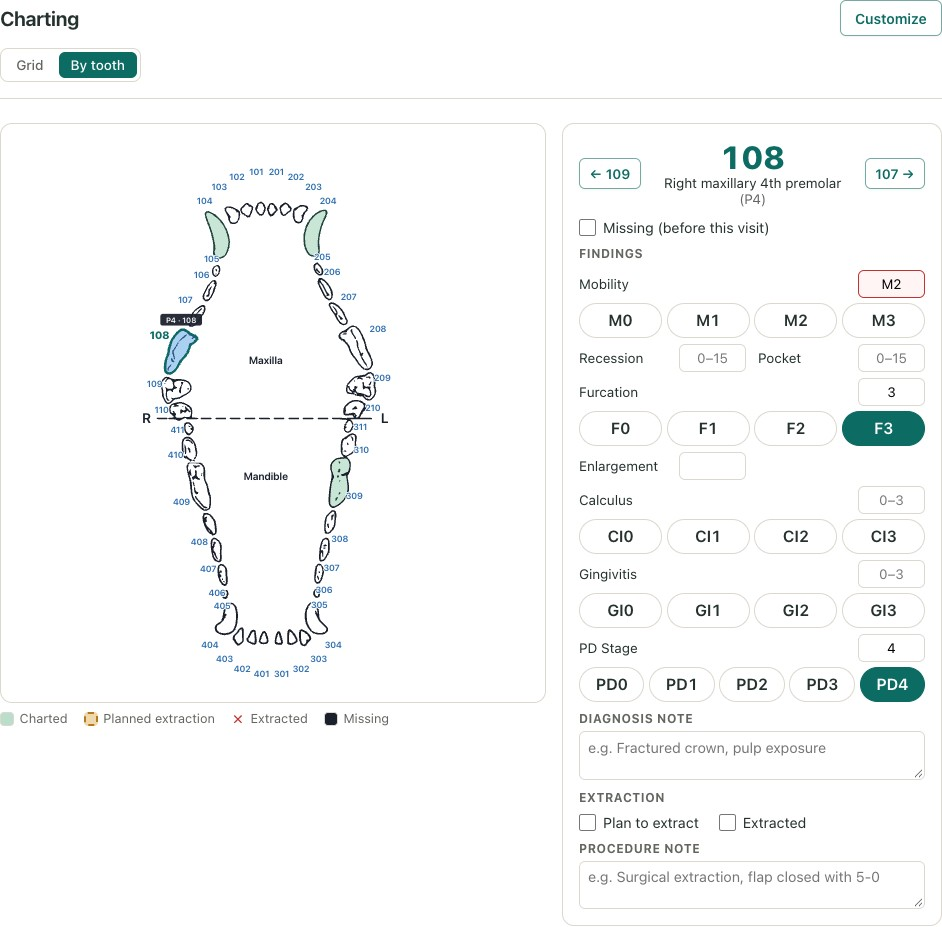
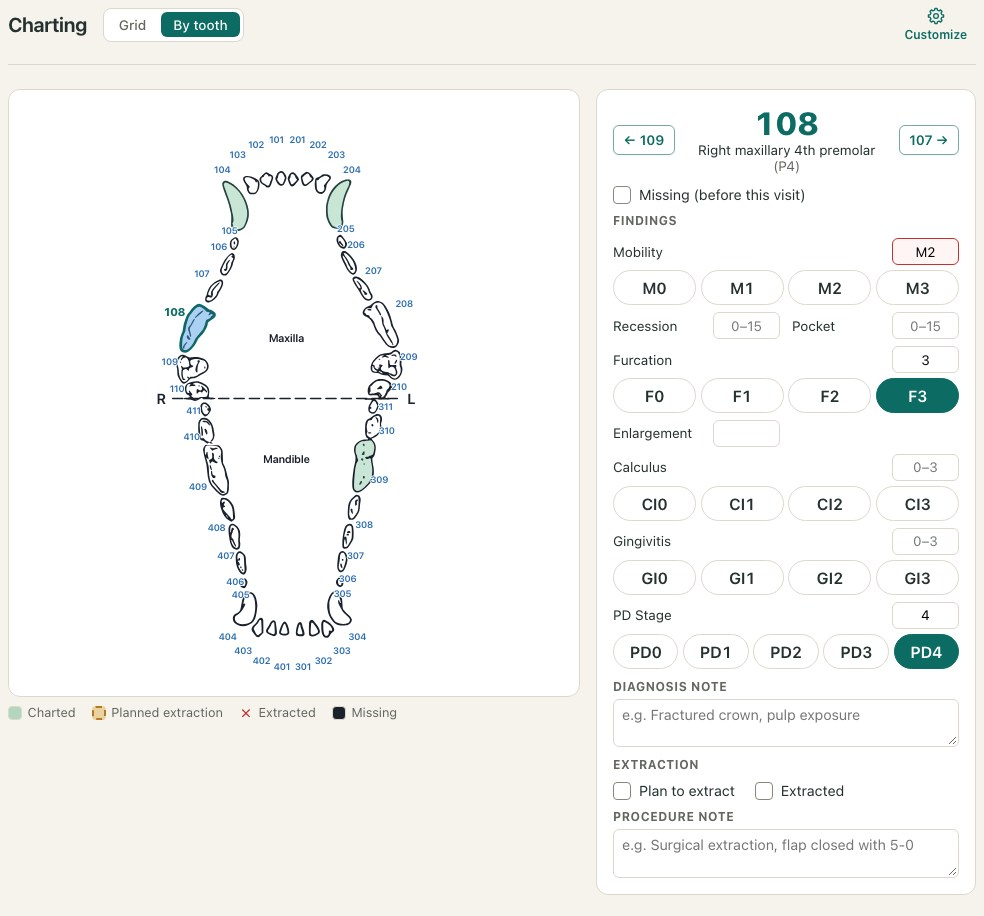
Standardize Customize controls and align the Charting switch

diff --git a/src/help/topics.ts b/src/help/topics.ts
@@ -23,7 +23,7 @@ export const HELP_SCREENSHOTS: Partial<Record<HelpTopic, readonly HelpScreenshot
   start: [{ caption: 'start', src: '/help/screenshots/chart-overview.jpg', width: 1280, height: 605, section: 'first' }],
   patients: [{ caption: 'patients', src: '/help/screenshots/patient-history.jpg', width: 1132, height: 772, section: 'third' }],
   exam: [
-    { caption: 'exam', src: '/help/screenshots/exam.jpg', width: 976, height: 508, section: 'first' },
+    { caption: 'exam', src: '/help/screenshots/exam.jpg', width: 976, height: 530, section: 'first' },
     { caption: 'examCustomize', src: '/help/screenshots/exam-customize.jpg', width: 964, height: 784, section: 'first' },
   ],
   consultation: [
@@ -44,7 +44,7 @@ export const HELP_SCREENSHOTS: Partial<Record<HelpTopic, readonly HelpScreenshot
   charting: [{ caption: 'charting', src: '/screenshots/feat-grid.jpg', width: 1400, height: 515, section: 'first' }],
   imaging: [
     { caption: 'attachmentNames', src: '/help/screenshots/attachment-names.jpg', width: 968, height: 233, section: 'first' },
-    { caption: 'imagingTemplates', src: '/help/screenshots/imaging.jpg', width: 1240, height: 850, section: 'third' },
+    { caption: 'imagingTemplates', src: '/help/screenshots/imaging.jpg', width: 1240, height: 686, section: 'third' },
   ],
   dictation: [
     { caption: 'dictation', src: '/help/screenshots/dictation.jpg', width: 1440, height: 705, section: 'third' },
@@ -54,8 +54,8 @@ export const HELP_SCREENSHOTS: Partial<Record<HelpTopic, readonly HelpScreenshot
     { caption: 'dischargeTemplates', src: '/help/screenshots/discharge-templates.jpg', width: 836, height: 922, section: 'first' },
     { caption: 'owner', src: '/help/screenshots/owner-report.jpg', width: 976, height: 438, section: 'second' },
   ],
-  export: [{ caption: 'export', src: '/help/screenshots/review-export.jpg', width: 1232, height: 772, section: 'second' }],
-  'by-number': [{ caption: 'by-number', src: '/help/screenshots/by-tooth.jpg', width: 942, height: 927, section: 'first' }],
+  export: [{ caption: 'export', src: '/help/screenshots/review-export.jpg', width: 1280, height: 772, section: 'second' }],
+  'by-number': [{ caption: 'by-number', src: '/help/screenshots/by-tooth.jpg', width: 984, height: 916, section: 'first' }],
 };
 
 export const CHART_CUSTOMIZATION_CATEGORIES = ['patient', 'exam', 'anesthesia', 'charting', 'diagnosis', 'procedure', 'images'] as const;

diff --git a/src/components/ClinicalPolish.css b/src/components/ClinicalPolish.css
@@ -210,8 +210,36 @@ html:not(.native-ios) .entry-grid-container .entry-grid-form :is(.patient-form__
   grid-column: 2; grid-row: 1; justify-self: end;
 }
 html:not(.native-ios) .entry-grid-container .entry-grid-form .charting-header-actions { display: contents; }
-html:not(.native-ios) .entry-grid-container .entry-grid-form .charting-header-actions > .diagram-view__action { grid-column: 2; grid-row: 1; justify-self: end; }
-html:not(.native-ios) .entry-grid-container .entry-grid-form .charting-view-switch { grid-column: 1 / -1; grid-row: 2; justify-self: start; }
+html:not(.native-ios) .entry-grid-container .entry-grid-form .charting-header-actions > .section-header__customize { grid-column: 2; grid-row: 1; justify-self: end; }
+html:not(.native-ios) .entry-grid-container .entry-grid-form .dental-grid-section:has(> .dental-grid__section-header > .charting-header-actions) {
+  container: charting-header / inline-size;
+}
+html:not(.native-ios) .entry-grid-container .entry-grid-form .charting-view-switch {
+  grid-column: 1 / -1;
+  grid-row: 2;
+  justify-self: start;
+  max-inline-size: 100%;
+}
+html:not(.native-ios) .entry-grid-container .entry-grid-form .tooth-chart .charting-view-switch {
+  grid-column: 1;
+}
+@container charting-header (min-width: 320px) {
+  html:not(.native-ios) .entry-grid-container .entry-grid-form .dental-grid__section-header:has(> .charting-header-actions) {
+    grid-template-columns: minmax(0, max-content) minmax(0, 1fr) auto;
+  }
+  html:not(.native-ios) .entry-grid-container .entry-grid-form .charting-header-actions > .section-header__customize {
+    grid-column: 3;
+  }
+  html:not(.native-ios) .entry-grid-container .entry-grid-form .charting-header-actions > .charting-view-switch {
+    grid-column: 2;
+    grid-row: 1;
+  }
+}
+html:not(.native-ios) .entry-grid-container .entry-grid-form .dental-grid__section-header:has(> .charting-header-actions) .dental-grid__title,
+html:not(.native-ios) .entry-grid-container .entry-grid-form .charting-view-switch__btn {
+  min-inline-size: 0;
+  overflow-wrap: anywhere;
+}
 
 .section-header__actions, .section-header__description, .section-header__title-action { grid-column: 1 / -1; min-width: 0; }
 .section-header__title-action { margin-inline-start: auto; display: flex; flex-wrap: wrap; justify-content: flex-end; gap: 8px; }

diff --git a/src/components/PracticeSettingsModal.tsx b/src/components/PracticeSettingsModal.tsx
@@ -1,4 +1,5 @@
 import React from 'react';
+import { CustomizeButton } from './CustomizeButton';
 import { Trans, useTranslation } from 'react-i18next';
 import i18n from '../i18n';
 import { formatDateTime } from '../i18n/format';
@@ -763,13 +764,8 @@ export const PracticeSettingsModal: React.FC<PracticeSettingsModalProps> = ({
               </li>
             ))}
           </ul>
-          <button
-            type="button"
-            className="diagram-view__action"
-            onClick={() => { setTreatmentTemplateId(null); setTemplatesOpen('treatment'); }}
-          >
-            {t('practice.treatmentReport.customize')}
-          </button>
+          <CustomizeButton label={t('practice.treatmentReport.customize')}
+            onClick={() => { setTreatmentTemplateId(null); setTemplatesOpen('treatment'); }} />
         </section>
       )}
 
@@ -780,13 +776,8 @@ export const PracticeSettingsModal: React.FC<PracticeSettingsModalProps> = ({
           <p className="ai-settings-blurb">
             {t('practice.ownerReport.blurb')}
           </p>
-          <button
-            type="button"
-            className="diagram-view__action"
-            onClick={() => (asScreen && onCustomizeReport ? onCustomizeReport() : setTemplatesOpen('owner'))}
-          >
-            {t('practice.ownerReport.customize')}
-          </button>
+          <CustomizeButton label={t('practice.ownerReport.customize')}
+            onClick={() => (asScreen && onCustomizeReport ? onCustomizeReport() : setTemplatesOpen('owner'))} />
         </section>
       )}
 

diff --git a/src/EntryGrid.tsx b/src/EntryGrid.tsx
@@ -4,6 +4,7 @@ import { useConsultationLibrary } from './hooks/useConsultationLibrary';
 import { CONSULTATION_FIELDS, isUnmodifiedStandardDischarge, consultationLayoutFor, dischargeLayoutFor, isCustomConsultationField, isCustomDischargeField } from './utils/consultationTemplates';
 import { ConsultationTemplatesDialog } from './components/ConsultationTemplatesDialog';
 import { Icon } from './ios/icons';
+import { CustomizeButton } from './components/CustomizeButton';
 import { useTeam } from './hooks/useTeam';
 import { RefineTextContext } from './components/RefineTextAction';
 import type { HistoryVisit } from './components/PatientRecordHistory';
@@ -476,14 +477,13 @@ const EntryGrid: React.FC<EntryGridProps> = ({
       {chartingViewSwitch}
       {/* The app has Customize in the Chart bar's More menu. */}
       {!native && (
-        <button
-          type="button"
-          className="diagram-view__action section-header__customize"
+        <CustomizeButton
+          className="section-header__customize"
           onClick={() => openChartSettings('charting')}
           title={t('customize.hint')}
-        >
-          {t('customize.label')}
-        </button>
+          label={t('customize.label')}
+          opensDialog
+        />
       )}
     </div>
   );

diff --git a/src/components/forms.i18n.test.tsx b/src/components/forms.i18n.test.tsx
@@ -17,6 +17,7 @@ import { ExamAreasEditor } from './ExamAreasEditor';
 import { SurgeryReportForm } from './SurgeryReportForm';
 import { ImagingSection } from './ImagingSection';
 import { DocumentsModal } from './DocumentsModal';
+import { CustomizeButton } from './CustomizeButton';
 
 // The report-template store and the attachment hook talk to Supabase; swap in plain state.
 const templateStore = vi.hoisted(() => ({
@@ -73,6 +74,16 @@ const patient: PatientInfo = {
   doctor: '', tech: 'Dr. Sharma', date: '2026-03-05', complaint: 'Gum swelling', treatmentReport: '',
   recallDate: '2026-09-05', nerveBlocks: EMPTY_NERVE_BLOCKS, exam: EMPTY_EXAM_FINDINGS,
 };
+
+it('keeps the Customize label accessible with the gear and opens its action', () => {
+  const onClick = vi.fn();
+  const { container } = render(<CustomizeButton label={i18n.t('forms:patient.customize')} onClick={onClick} />);
+  expect(findUntranslated(container)).toEqual([]);
+  const button = screen.getByRole('button', { name: '⟦Customize⟧' });
+  expect(button.querySelector('svg')).toHaveAttribute('aria-hidden', 'true');
+  fireEvent.click(button);
+  expect(onClick).toHaveBeenCalledOnce();
+});
 
 describe('PatientForm', () => {
   it('empty and filled, with and without the recheck field', () => {

diff --git a/src/styles/controls.css b/src/styles/controls.css
@@ -191,3 +191,30 @@ html:not(.native-ios)[dir='rtl'] select:not([multiple], [size], .select--bare) {
 @media (max-width: 640px), (pointer: coarse) {
   .template-help, .template-create:is(.ui-btn, .diagram-view__action) { min-inline-size: 44px; min-block-size: 44px; }
 }
+
+.customize-button {
+  display: inline-flex;
+  flex-direction: column;
+  align-items: center;
+  justify-content: center;
+  gap: 3px;
+  min-inline-size: 44px;
+  min-block-size: 44px;
+  padding: 5px 8px;
+  border: 1px solid transparent;
+  border-radius: var(--radius-sm, 6px);
+  background: transparent;
+  color: var(--primary);
+  font: inherit;
+  font-size: 0.75rem;
+  font-weight: 600;
+  line-height: 1.2;
+  text-align: center;
+  white-space: normal;
+  overflow-wrap: anywhere;
+  cursor: pointer;
+}
+
+.customize-button > .ios-icon { flex: none; }
+.customize-button:is(:hover, [aria-expanded='true']) { background: var(--primary-tint); }
+.customize-button:focus-visible { outline: 2px solid var(--primary); outline-offset: 2px; }

diff --git a/src/components/DocumentToolbar.tsx b/src/components/DocumentToolbar.tsx
@@ -2,6 +2,7 @@ import { useId, useState, type ReactNode } from 'react';
 import { createPortal } from 'react-dom';
 import { useTranslation } from 'react-i18next';
 import { useCompactPdfLayout } from './PdfStylePicker';
+import { CustomizeButton } from './CustomizeButton';
 import './DocumentToolbar.css';
 
 interface Props {
@@ -21,10 +22,8 @@ export function DocumentToolbar({ actions, children, notice, controlsHost }: Pro
 
   const controls = (
     <div className="document-toolbar__row">
-      <button type="button" className="ui-btn ui-btn--secondary" aria-expanded={expanded} aria-controls={id}
-        onClick={() => setChoice(!expanded)}>
-        {t('documents.customize')} <span aria-hidden="true">{expanded ? '▴' : '▾'}</span>
-      </button>
+      <CustomizeButton label={t('documents.customize')} aria-expanded={expanded} aria-controls={id}
+        onClick={() => setChoice(!expanded)} />
       <div className="document-toolbar__actions">{actions}</div>
     </div>
   );

diff --git a/src/components/SectionHeader.tsx b/src/components/SectionHeader.tsx
@@ -1,5 +1,6 @@
 import React from 'react';
 import { useTranslation } from 'react-i18next';
+import { CustomizeButton } from './CustomizeButton';
 
 /** Customization belongs to the section; clinical actions have their own row. */
 export function SectionHeader({ title, onCustomize, customizeTitle, titleAction, actions, children }: {
@@ -12,9 +13,8 @@ export function SectionHeader({ title, onCustomize, customizeTitle, titleAction,
 }) {
   const { t } = useTranslation('forms');
   const customize = onCustomize && (
-    <button type="button" className="diagram-view__action section-header__customize" onClick={onCustomize} title={customizeTitle}>
-      {t('patient.customize')}
-    </button>
+    <CustomizeButton className="section-header__customize" label={t('patient.customize')}
+      onClick={onCustomize} title={customizeTitle} opensDialog />
   );
   return (
     <div className="patient-form__header section-header">

diff --git a/src/components/CustomizeButton.tsx b/src/components/CustomizeButton.tsx
@@ -1,0 +1,21 @@
+import type { ComponentPropsWithoutRef } from 'react';
+import { Icon } from '../ios/icons';
+
+type Props = Pick<ComponentPropsWithoutRef<'button'>,
+  'aria-controls' | 'aria-expanded' | 'className' | 'onClick' | 'title'> & {
+    label: string;
+    opensDialog?: boolean;
+  };
+
+const GEAR_ICON = 'gear' as const;
+const DIALOG_POPUP = 'dialog' as const;
+
+export function CustomizeButton({ label, className, opensDialog, ...props }: Props) {
+  return (
+    <button {...props} type="button" aria-haspopup={opensDialog ? DIALOG_POPUP : undefined}
+      className={className ? `customize-button ${className}` : 'customize-button'}>
+      <Icon name={GEAR_ICON} size={18} />
+      <span>{label}</span>
+    </button>
+  );
+}

diff --git a/src/components/ToothChartView.css b/src/components/ToothChartView.css
@@ -67,11 +67,8 @@
     padding-bottom: 8px;
     margin-bottom: 8px;
   }
-  html:not(.native-ios) .entry-grid-container .entry-grid-form .tooth-chart .charting-view-switch {
-    grid-column: 1;
-  }
   html:not(.native-ios) .entry-grid-container .entry-grid-form .tooth-chart .dental-grid__section-header .tooth-chart__map-toggle {
-    grid-column: 2;
+    grid-column: -2 / -1;
     grid-row: 2;
     justify-self: end;
   }

diff --git a/src/components/DocumentToolbar.css b/src/components/DocumentToolbar.css
@@ -61,7 +61,7 @@
     white-space: normal;
     overflow-wrap: anywhere;
   }
-  .documents-modal__controls .document-toolbar__row > .ui-btn { flex-shrink: 0; max-width: 45%; }
+  .documents-modal__controls .document-toolbar__row > .customize-button { flex-shrink: 0; max-width: 45%; }
   .document-toolbar__group { flex: 1 1 100%; }
   .document-toolbar__options {
     display: grid;

diff --git a/src/components/PracticeWorkspace.css b/src/components/PracticeWorkspace.css
@@ -97,3 +97,7 @@
   .practice-settings-modal .ai-settings-body.practice-workspace__layout { grid-template-columns: minmax(0, 1fr); }
   .practice-settings-modal .practice-logo-row { flex-wrap: wrap; }
 }
+
+.ai-settings-section > .customize-button {
+  align-self: flex-start;
+}
